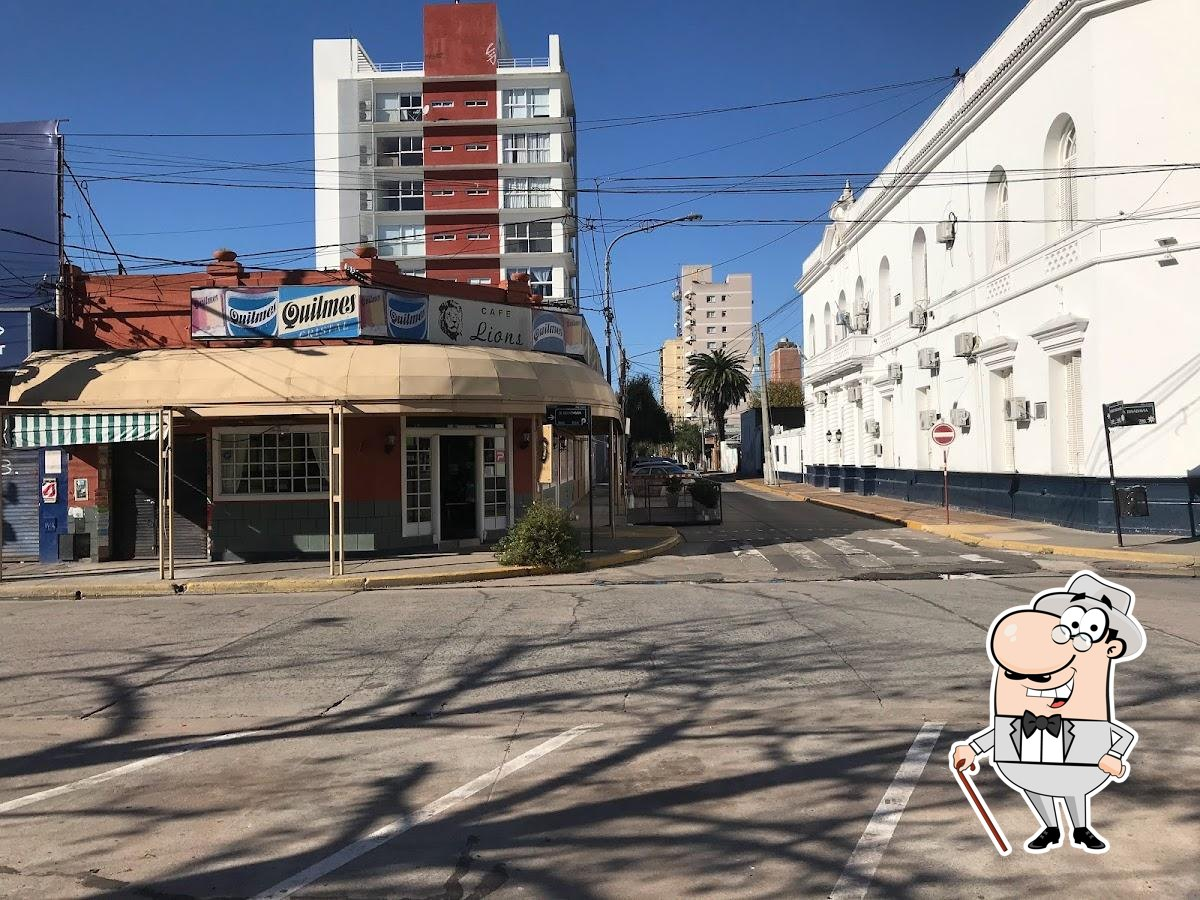
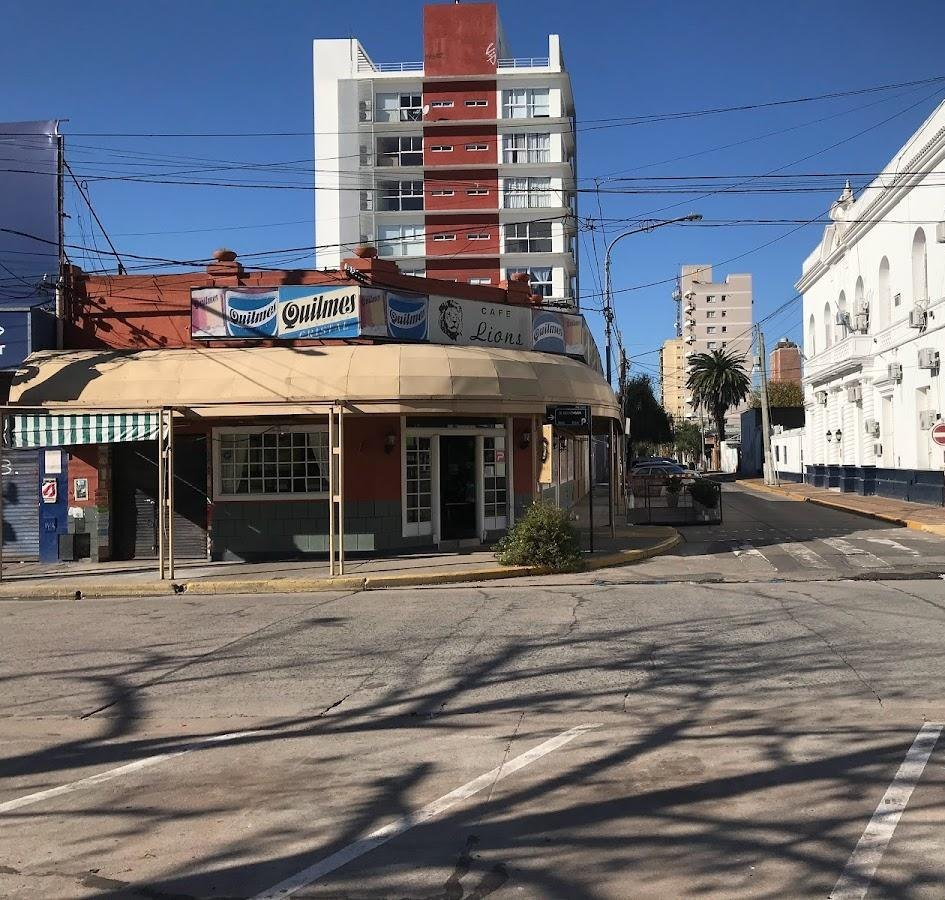
agregue imgs

diff --git a/src/menu_scroll/configImagenes.tsx b/src/menu_scroll/configImagenes.tsx
@@ -4,22 +4,22 @@ import { ImageSourcePropType } from 'react-native';
 //en firebase se guarda una clave que coincide con el nombre de la imagen, ahi se relacionan
 export const imagenesLugares: Record<string, ImageSourcePropType> = {
   parroquia: require('../../assets/images/lugaresIniciales/parroquia.jpg'),
-  //plaza: require('../../assets/images/lugaresIniciales/plaza.jpg'),
-  //capilla: require('../../assets/images/lugaresIniciales/capilla.jpg'),
+  plaza: require('../../assets/images/lugaresIniciales/plaza.jpg'),
+  capilla: require('../../assets/images/lugaresIniciales/capilla.jpg'),
   palacio: require('../../assets/images/lugaresIniciales/palacio.jpg'),
-  //teatro: require('../../assets/images/lugaresIniciales/teatro.jpg'),
-  //corredor: require('../../assets/images/lugaresIniciales/corredor.jpg'),
-  //cenotafio: require('../../assets/images/lugaresIniciales/cenotafio.jpg'),
-  //reserva: require('../../assets/images/lugaresIniciales/reserva.jpg'),
-  //biblioteca: require('../../assets/images/lugaresIniciales/biblioteca.jpg'),
-  //bingo: require('../../assets/images/lugaresIniciales/bingo.jpg'),
-  //colonial: require('../../assets/images/lugaresIniciales/colonial.jpg'),
-  //champagnat: require('../../assets/images/lugaresIniciales/champagnat.jpg'),
-  //granteatro: require('../../assets/images/lugaresIniciales/granteatro.jpg'),
-  //palmas: require('../../assets/images/lugaresIniciales/palmas.jpg'),
-  //torres: require('../../assets/images/lugaresIniciales/torres.jpg'),
+  teatro: require('../../assets/images/lugaresIniciales/teatro.jpg'),
+  corredor: require('../../assets/images/lugaresIniciales/corredor.jpg'),
+  cenotafio: require('../../assets/images/lugaresIniciales/cenotafio.jpg'),
+  reserva: require('../../assets/images/lugaresIniciales/reserva.jpg'),
+  biblioteca: require('../../assets/images/lugaresIniciales/biblioteca.jpg'),
+  bingo: require('../../assets/images/lugaresIniciales/bingo.jpg'),
+  colonial: require('../../assets/images/lugaresIniciales/colonial.jpg'),
+  champagnat: require('../../assets/images/lugaresIniciales/champagnat.jpg'),
+  granteatro: require('../../assets/images/lugaresIniciales/granteatro.jpg'),
+  palmas: require('../../assets/images/lugaresIniciales/palmas.jpg'),
+  torres: require('../../assets/images/lugaresIniciales/torres.jpg'),
   lions: require('../../assets/images/lugaresIniciales/lions.jpg'),
-  //aldea: require('../../assets/images/lugaresIniciales/aldea.jpg'),
+  aldea: require('../../assets/images/lugaresIniciales/aldea.jpg'),
   paseo: require('../../assets/images/lugaresIniciales/paseo.jpg'),
 };
 
